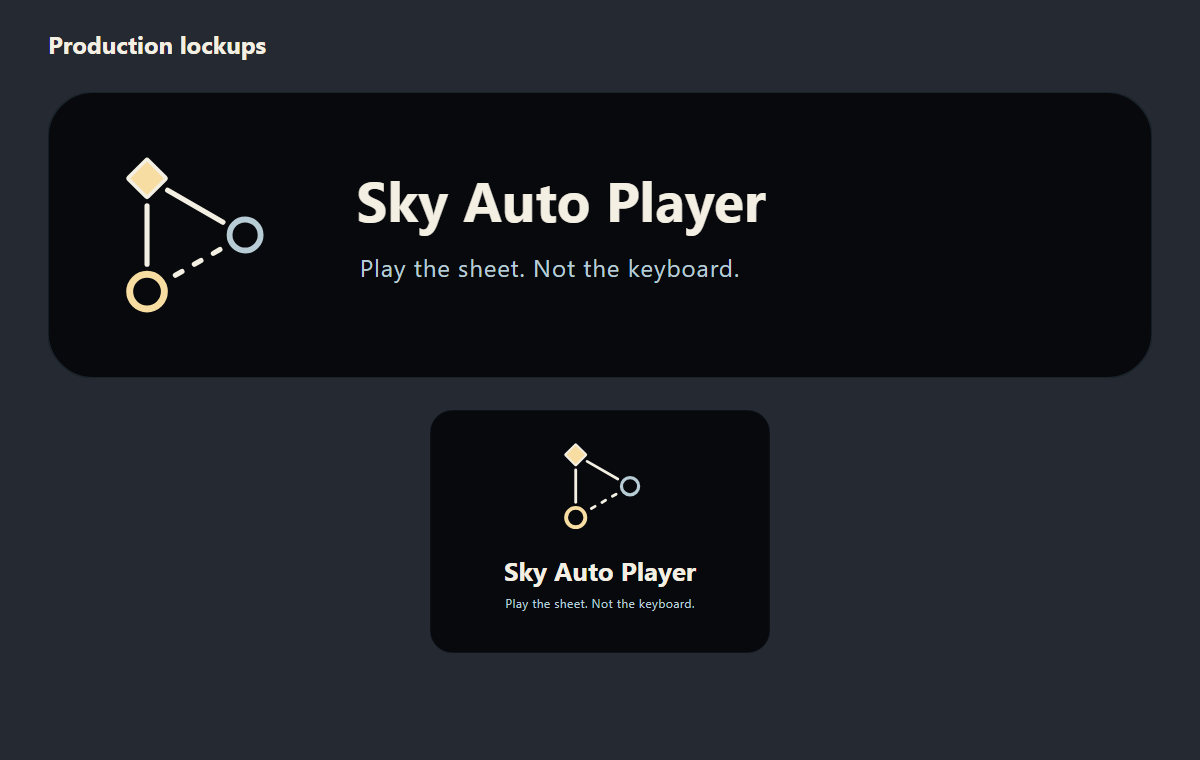
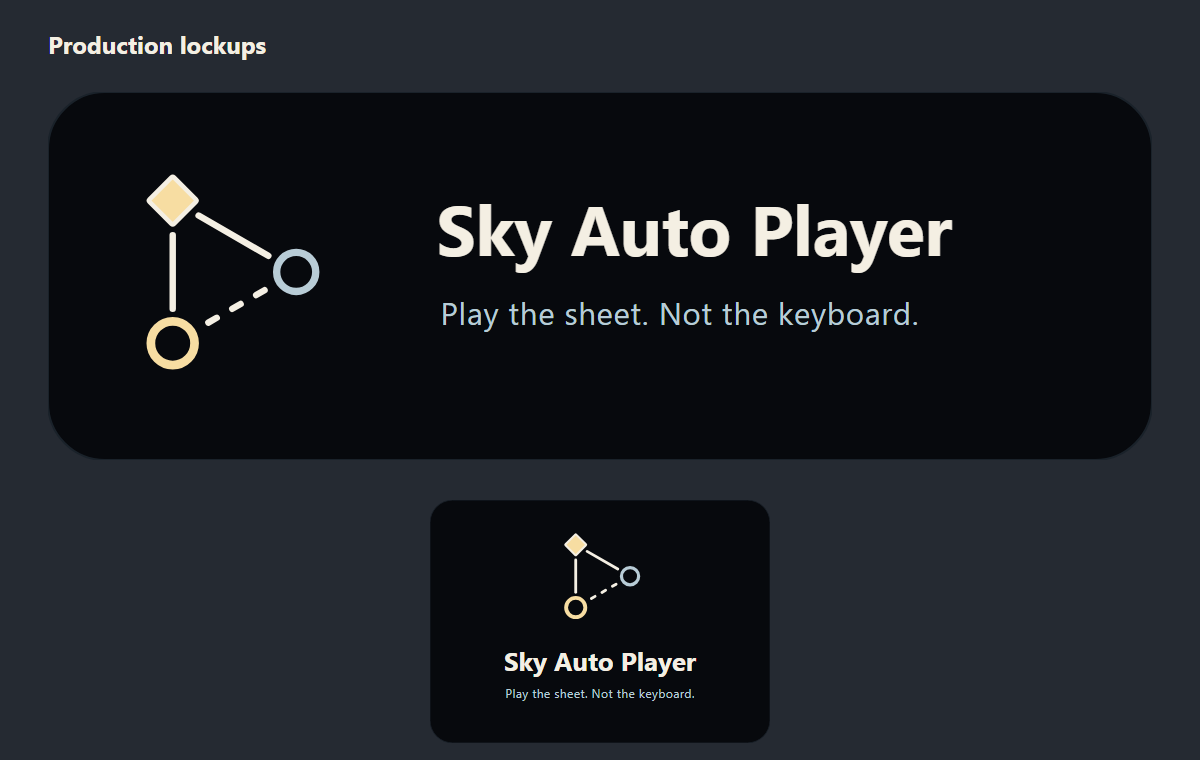
brand: compact lockup compositions

diff --git a/tests/test_branding_assets.py b/tests/test_branding_assets.py
@@ -137,6 +137,13 @@ def test_required_branding_sources_exist_and_lockups_are_flat() -> None:
     for path in required[2:7]:
         _assert_flat(_parse_svg(path))
     for path in required[7:9]:
+        view_box = _parse_svg(path).attrib["viewBox"].split()
+        width, height = (float(view_box[index]) for index in (2, 3))
+        ratio = width / height
+        if path.name == "lockup-horizontal.svg":
+            assert 2.8 <= ratio <= 3.2
+        else:
+            assert 1.2 <= ratio <= 1.6
         text = path.read_text(encoding="utf-8")
         assert "Sky Auto Player" in text
         assert "Play the sheet." in text
